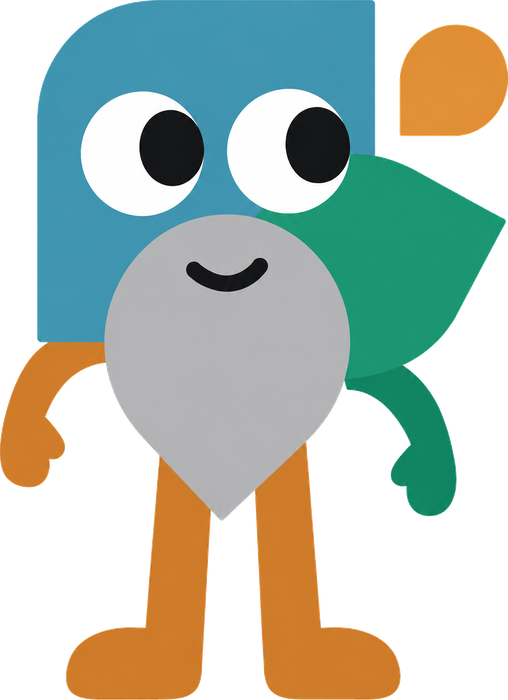
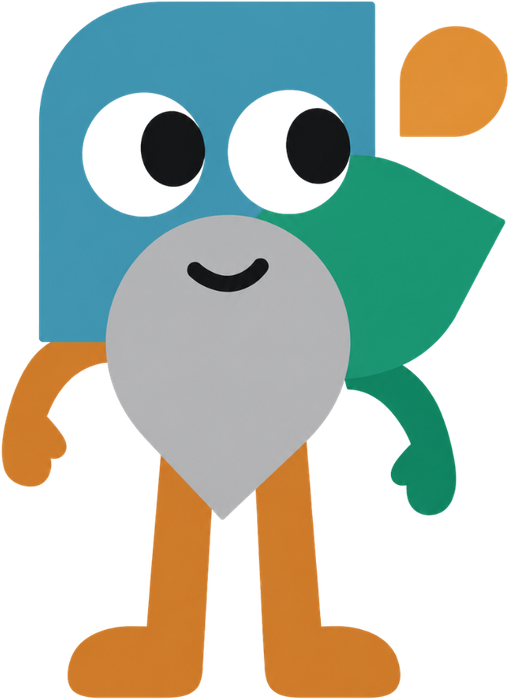
Panela siempre sin fondo: imagen transparente oficial y sin caja detrás

diff --git a/src/components/TarjetaAsistente.tsx b/src/components/TarjetaAsistente.tsx
@@ -36,19 +36,12 @@ export default function TarjetaAsistente() {
   }, [cargarNota]);
 
   return (
-    <div
-      className="card flex items-stretch gap-3.5 p-3.5"
-      style={{ backgroundColor: asistente.tinte, borderColor: asistente.borde }}
-    >
+    <div className="card flex items-stretch gap-3.5 p-3.5">
       <span
         className="flex items-end justify-center"
         style={{
-          backgroundColor: "var(--surface)",
-          border: `1px solid ${asistente.borde}`,
-          borderRadius: "var(--r-md)",
-          overflow: "hidden",
           height: rem(104),
-          width: rem(88),
+          width: rem(80),
           flexShrink: 0,
         }}
         aria-hidden="true"

diff --git a/src/components/AsistenteActivo.tsx b/src/components/AsistenteActivo.tsx
@@ -6,17 +6,13 @@ interface Props {
   size?: number;
 }
 
-/** La ilustración de Panela. */
+/** La ilustración de Panela, siempre sin fondo ni marco. */
 export default function AsistenteActivo({ size = 150 }: Props) {
   return (
     <span
       className="flex items-end justify-center"
       style={{
-        backgroundColor: asistente.tinte,
-        border: `1px solid ${asistente.borde}`,
-        borderRadius: "var(--r-lg)",
-        overflow: "hidden",
-        height: rem(size + 10),
+        height: rem(size),
         width: rem(size),
         flexShrink: 0,
       }}

diff --git a/src/lib/asistentes.ts b/src/lib/asistentes.ts
@@ -4,9 +4,6 @@
  */
 export const ASISTENTE = {
   nombre: "Panela",
-  /** Ilustración oficial, de Imagenes/identidad visual/personaje nuevo.png. */
+  /** Ilustración oficial sin fondo (Imagenes/identidad visual/personaje sin fondo.png). Siempre va sin fondo ni marco. */
   imagen: "/personajes/panela.png",
-  /** Color de las tarjetas donde aparece. */
-  tinte: "var(--beige)",
-  borde: "var(--line-strong)",
 } as const;
